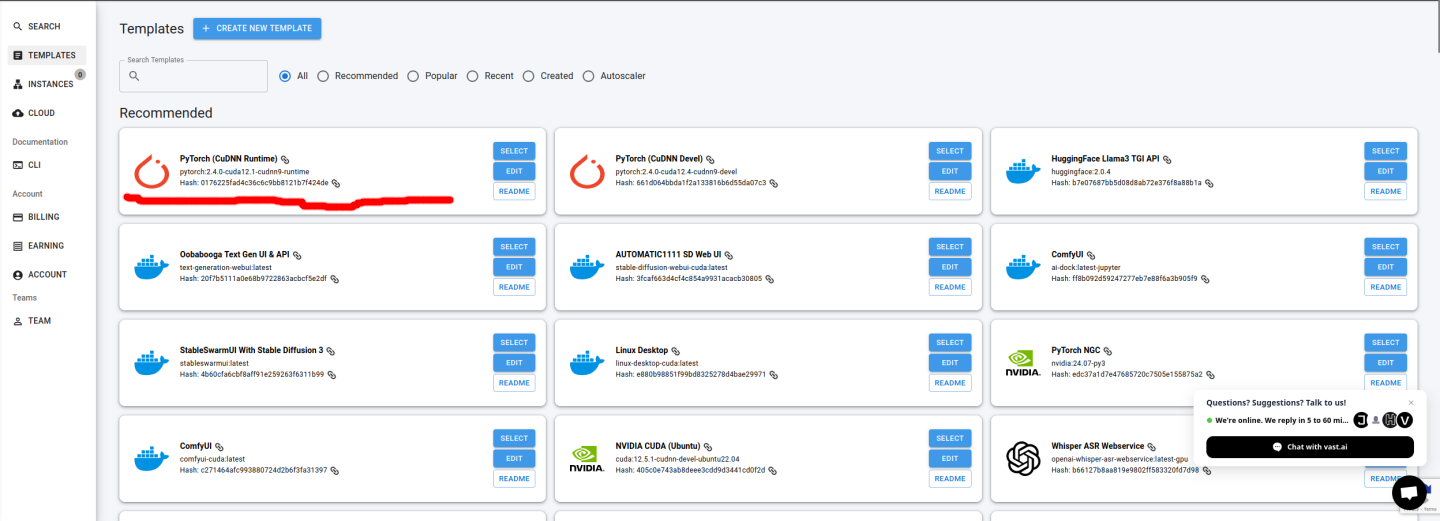
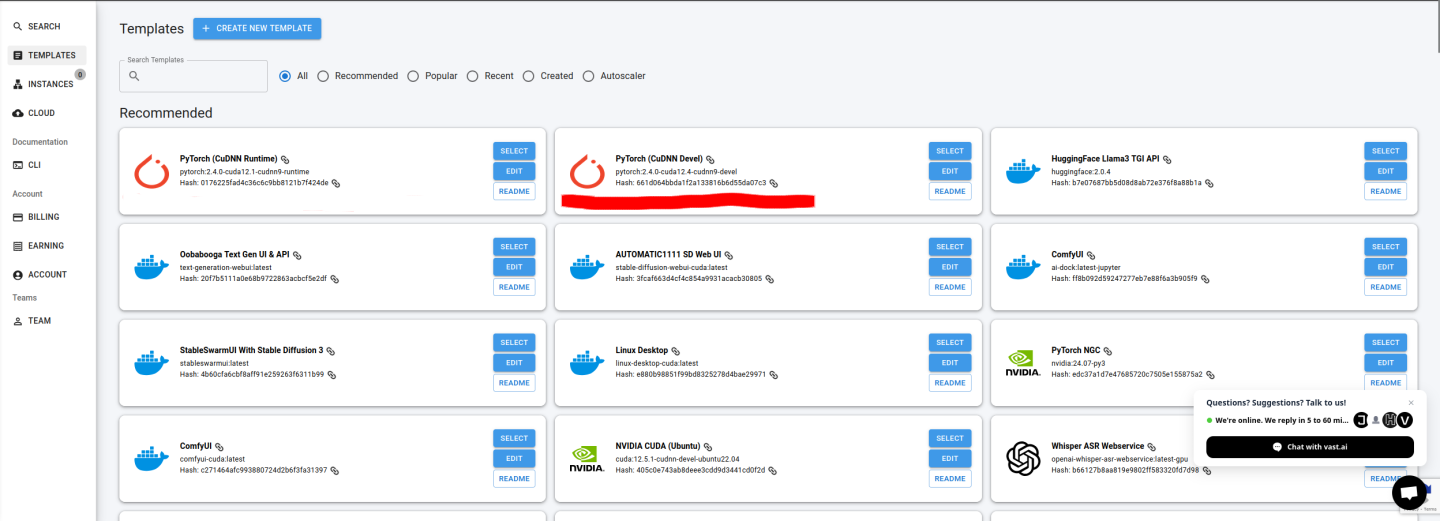
Use correct new template

Changed region(s): [[0.375, 0.3685, 0.5938, 0.4299], [0.0625, 0.3685, 0.3125, 0.4299]]

diff --git a/README.md b/README.md
@@ -163,7 +163,7 @@ Note that larger ranks might require lower learning rates to train stably, so do
 
 Now we train flux. Your first task it to make a VM with enough space on it to train flux.
 
-Note: If this if your first time using vast.ai, you may be prompted to first select your training template docker image. Just select the first one then select **Instances** -> **Create one!** after.
+Note: If this if your first time using vast.ai, you may be prompted to first select your training template docker image. Just select the CUDA 12.4 template then select **Instances** -> **Create one!** after.
 
 ![](images/selecttemplate.png)
 
